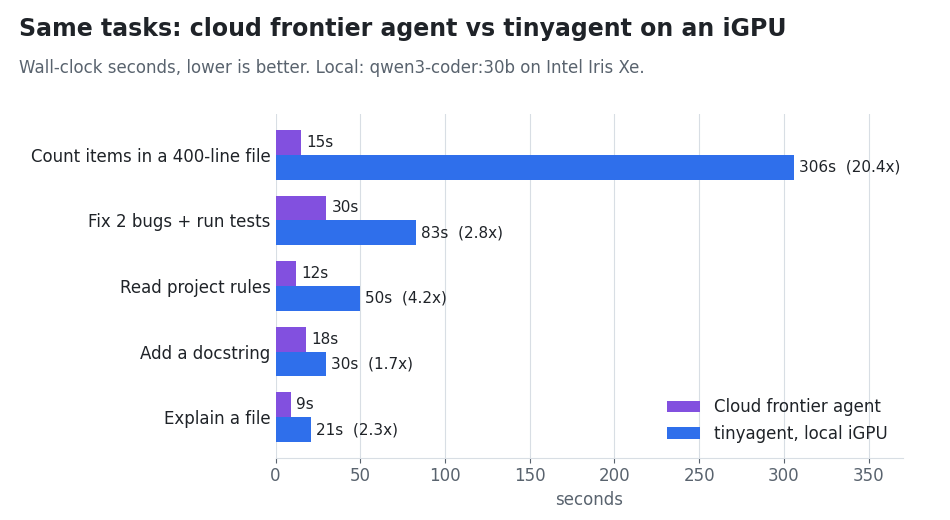
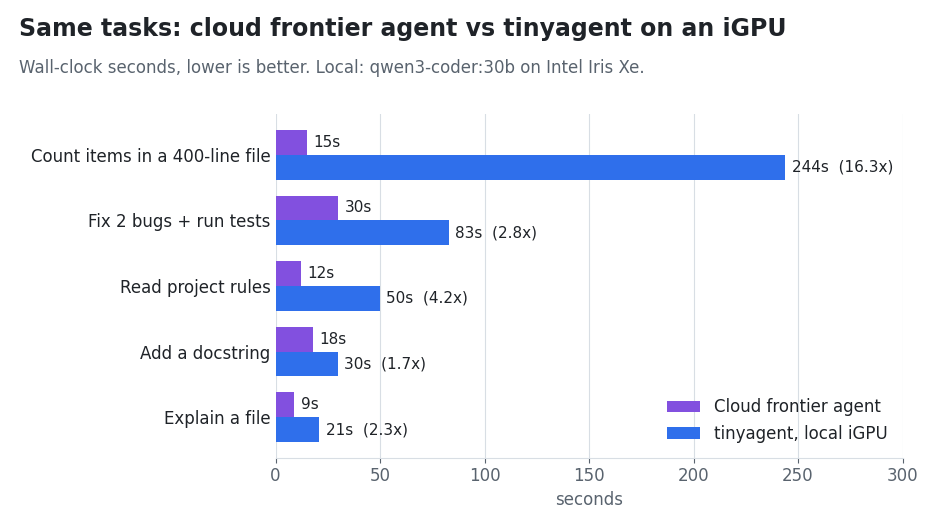
tinyagent 0.3.2: script-first hint for data tasks, read_file accepts stop/end
The counting task went from 352 s / 15 steps to 244 s / 11 steps. The comparison table and chart are updated.

diff --git a/tinyagent.py b/tinyagent.py
@@ -14,7 +14,7 @@ import argparse, difflib, fnmatch, html.parser, json, os, re, subprocess, sys, t
 import urllib.error, urllib.request
 from pathlib import Path
 
-VERSION = "0.3.1"
+VERSION = "0.3.2"
 ROOT = Path.cwd().resolve()
 SKIP = {".git", "node_modules", ".venv", "venv", "site-packages", "__pycache__", ".obsidian", ".trash",
         "dist", "build", ".tinyagent"}
@@ -166,10 +166,14 @@ def grep(pattern, glob="*", path="."):
     return "\n".join(out) or "no matches"
 
 
-def read_file(path, start=1, lines=250):
+def read_file(path, start=1, lines=250, stop=None, end=None, **_):
+    # Local models often guess `stop`/`end` (last line) instead of `lines`; accept them instead of erroring.
     text, _ = read_text(safe(path))
     all_lines = text.split("\n")
     start = max(1, int(start))
+    last = stop or end
+    if last is not None and str(last).isdigit():
+        lines = max(1, int(last) - start + 1)
     chunk = all_lines[start - 1:start - 1 + int(lines)]
     body = "\n".join(f"{i:>5}| {ln}" for i, ln in enumerate(chunk, start))
     end = start - 1 + len(chunk)
@@ -306,6 +310,7 @@ def system_prompt():
 - After changing code, verify it (run the tests or re-read the file) when you can.
 - Do only what the latest user message asks. Never delete or weaken tests to make them pass.
 - If a tool is blocked or the user denies it, stop and tell the user. Do not work around it.
+- To count, filter or aggregate data in files, write a short Python script and run it; do not read everything yourself.
 - Prefer few, targeted tool calls. Paths are relative to the folder.
 - Finish with a short answer: what you found or changed, and the files involved.{project_instructions()}"""
 

diff --git a/test_tinyagent.py b/test_tinyagent.py
@@ -26,6 +26,9 @@ assert "notes" in t.find_files("*release*")
 assert "phase 2" in t.grep("shipped", "*.md")
 assert "    1| phase 2 shipped" in t.read_file("notes/release-plan.md")
 assert "notes/" in t.list_dir()
+(d / "ten.txt").write_text("\n".join(f"line{i}" for i in range(1, 11)), encoding="utf-8")
+r = t.read_file("ten.txt", start=3, stop="5")  # guessed parameter name from a local model
+assert "line3" in r and "line5" in r and "line6" not in r, r
 
 # --- edit_file: exact, not found, ambiguous, line-number prefixes, CRLF preserved
 src = d / "app.py"

diff --git a/README.md b/README.md
@@ -198,13 +198,15 @@ Iris Xe. Times are wall-clock.
 | Add a docstring | 18 s | 30 s | 1.7x | Local wrote an 8-line docstring although the project's `AGENTS.md` asked for one line |
 | Read the project rules | 12 s | 50 s | 4.2x | Same. The local time includes about 35 s of first-time model load. Warm, it is about 15 s |
 | Fix 2 bugs and run the tests | 30 s | 83 s | 2.8x | Same fix. Local used more steps: an extra read, plus re-reading after the edit |
-| Count items across a 400-line file | 15 s | 306 s | 20x | Both correct. The cloud agent wrote one script. Local first tried to read the file in chunks, then fell back to a script after 10 steps |
+| Count items across a 400-line file | 15 s | 244 s | 16x | Both correct. The cloud agent wrote one script. Local read a chunk and tried several greps first, then wrote a script at step 9 of 11 |
 
 **What the numbers mean:**
 
 - **Small, focused edits:** about 2–3x slower. Comfortably usable.
-- **Tasks with a lot of input** (big files, many search results): 10–20x slower. Reading input at about 67 tok/s is the
-  bottleneck, and every context trim forces the model to re-read the prompt.
+- **Tasks with a lot of input or exploration:** 10–20x slower. Reading input at about 67 tok/s is part of it.
+  The bigger part is strategy: the local model tries reading and grepping before it writes a script. A system-prompt
+  hint ("count with a script") cut this task from 352 s and 15 steps to 244 s and 11 steps. More context does not help:
+  the 352 s run used the full 16k window and never trimmed anything.
 - **Judgment:** the local model follows project rules less reliably and takes more detours. Earlier versions of
   tinyagent also caught it trying to work around a blocked action. Version 0.3.1 hides blocked tools and tells it to
   stop instead.
